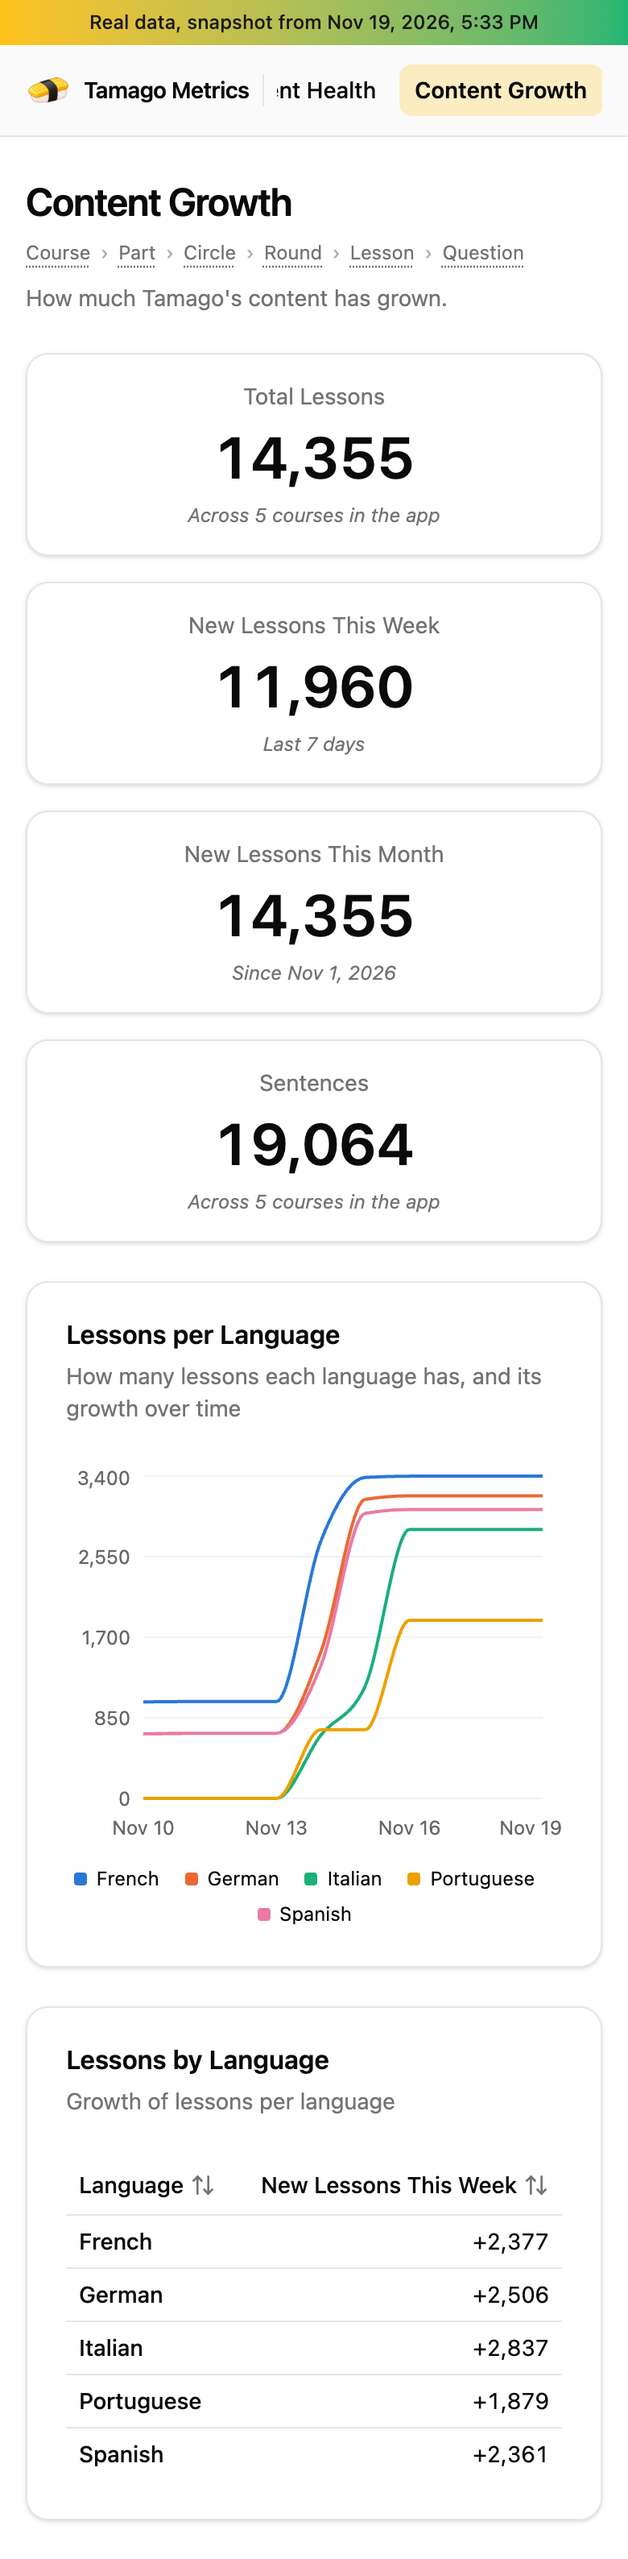
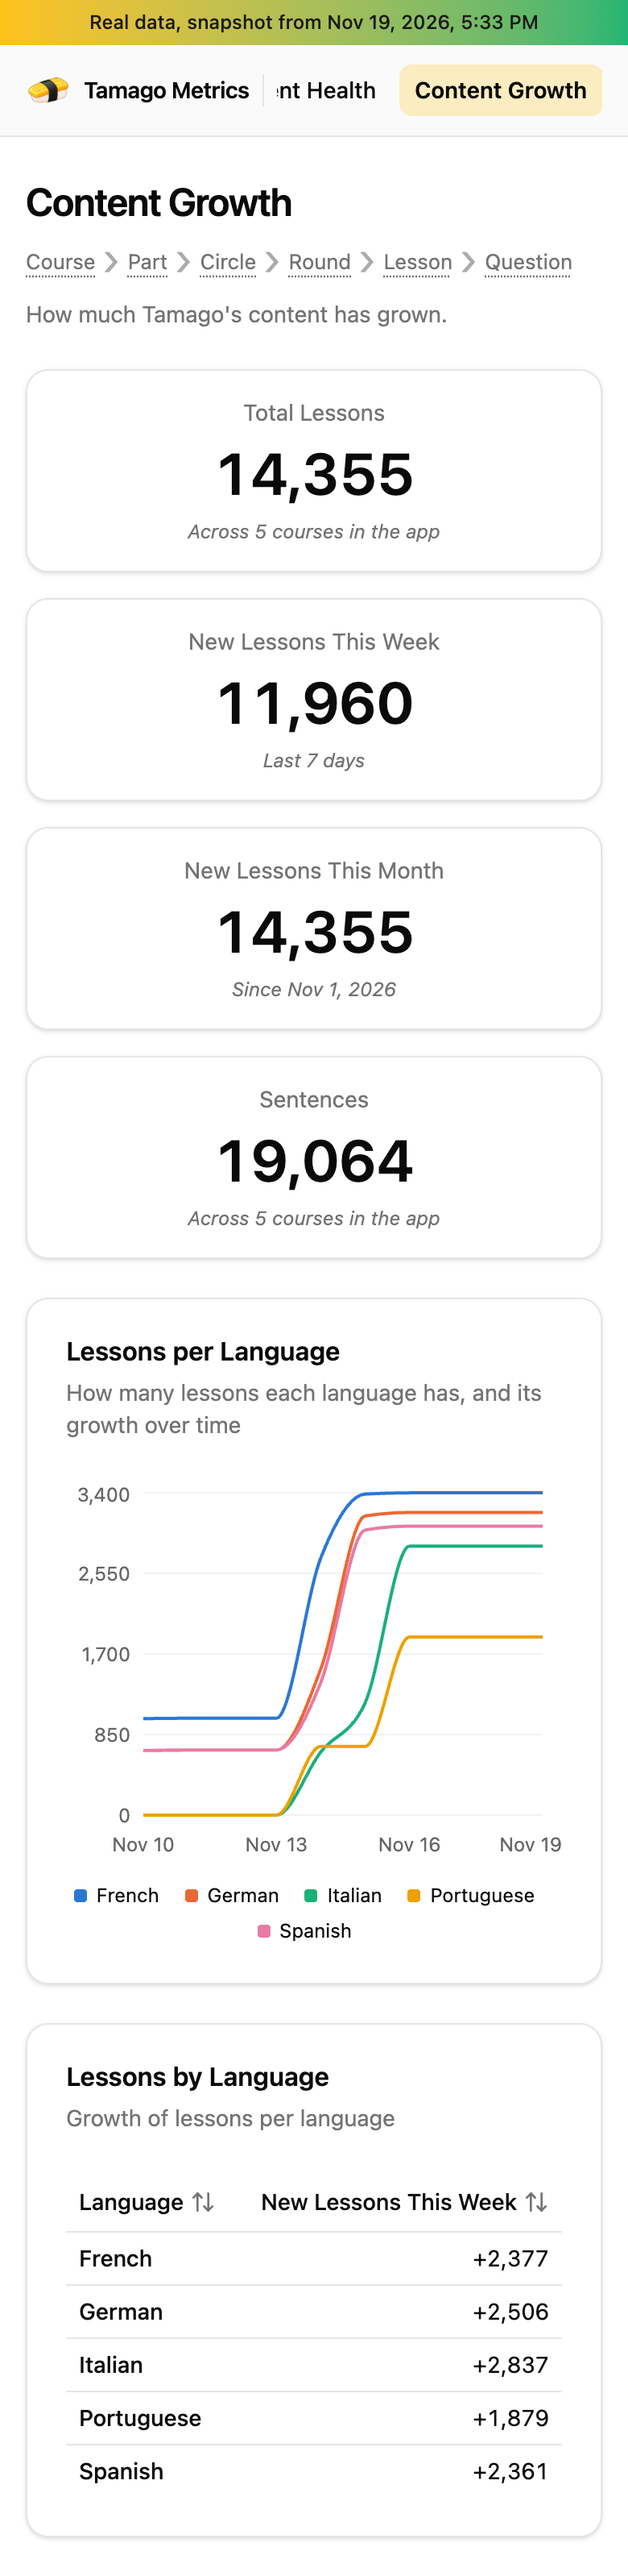
Content Growth legend: larger level names, arrows about three times larger

diff --git a/src/layout/HierarchyLegend.tsx b/src/layout/HierarchyLegend.tsx
@@ -29,7 +29,7 @@ function Level({ level }: { level: HierarchyLevel }) {
           onPointerLeave={(event: PointerEvent) => {
             if (event.pointerType === 'touch') event.preventDefault()
           }}
-          className="h-auto p-0 text-xs font-normal text-muted-foreground underline decoration-dotted underline-offset-4 hover:text-foreground"
+          className="h-auto p-0 text-sm font-normal max-sm:text-[13px] text-muted-foreground underline decoration-dotted underline-offset-4 hover:text-foreground"
         >
           {level.name}
         </Button>
@@ -47,11 +47,11 @@ function Level({ level }: { level: HierarchyLevel }) {
 /** Tamago's content levels, largest first, as a breadcrumb-style chain: Course › Part › … › Question. */
 export function HierarchyLegend() {
   return (
-    <ol aria-label="Content hierarchy" className="flex flex-wrap items-center gap-x-1.5 gap-y-1 max-sm:mb-1.5">
+    <ol aria-label="Content hierarchy" className="flex flex-wrap items-center gap-x-2 gap-y-1 max-sm:gap-x-1 max-sm:mb-1.5">
       {contentHierarchy.levels.map((level, i) => (
-        <li key={level.name} className="flex items-center gap-x-1.5">
+        <li key={level.name} className="flex items-center gap-x-2 max-sm:gap-x-1">
           {i > 0 ? (
-            <span aria-hidden="true" className="text-xs text-muted-foreground/60">
+            <span aria-hidden="true" className="-mt-1 text-4xl leading-none max-sm:text-3xl font-light text-muted-foreground/60">
               ›
             </span>
           ) : null}
